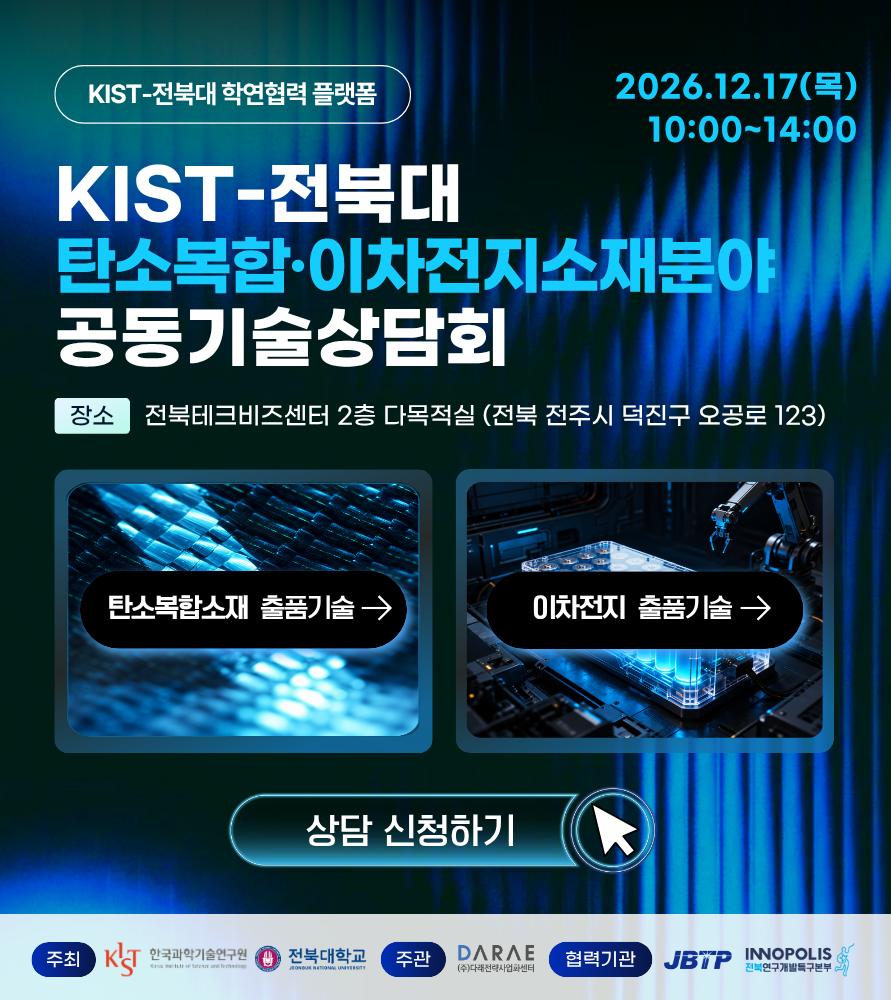
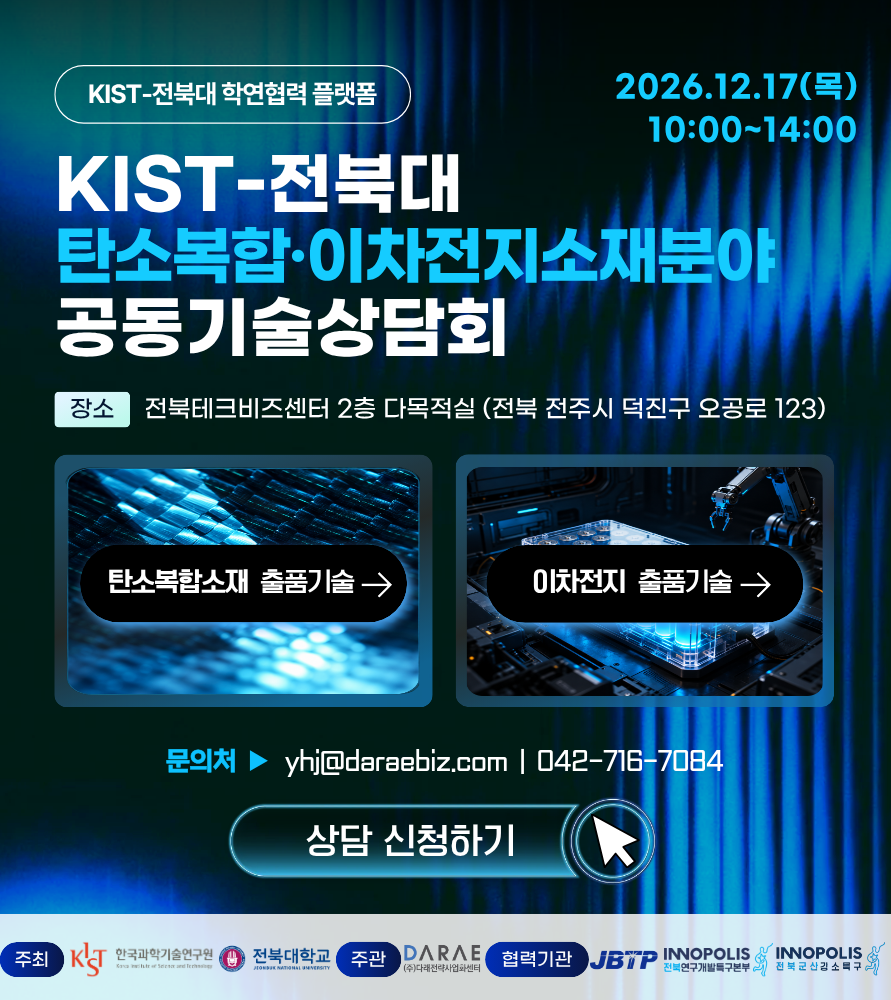
2026-jbnu-partnering: eDM 이미지 교체, 출품기술 버튼 클릭 영역 위치 조정
Claude-Session: https://claude.ai/code/session_013m9DrULBqybZFujcLbvGTN

Changed region(s): [[0.0606, 0.155, 0.9394, 0.899], [0.0, 0.93, 1.0, 0.992]]

diff --git a/2026-jbnu-partnering/edm/edm.html b/2026-jbnu-partnering/edm/edm.html
@@ -8,8 +8,8 @@
   <div style="width:891px; margin:0 auto;">
     <img src="https://darae-daejeon.github.io/kist-jbnu-partnering-2026/edm/edm.png" width="891" height="1000" usemap="#edm-buttons" alt="KIST-전북대 탄소복합·이차전지소재 공동기술상담회" style="display:block; width:891px; height:1000px; border:0;">
     <map name="edm-buttons" id="edm-buttons">
-      <area shape="rect" coords="80,571,407,650" href="https://darae-daejeon.github.io/kist/2026-jbnu-partnering/" target="_blank" alt="탄소복합소재 출품기술" title="탄소복합소재 출품기술">
-      <area shape="rect" coords="486,571,804,650" href="https://darae-daejeon.github.io/kist/2026-jbnu-partnering/" target="_blank" alt="이차전지 출품기술" title="이차전지 출품기술">
+      <area shape="rect" coords="80,545,407,622" href="https://darae-daejeon.github.io/kist/2026-jbnu-partnering/" target="_blank" alt="탄소복합소재 출품기술" title="탄소복합소재 출품기술">
+      <area shape="rect" coords="487,545,804,622" href="https://darae-daejeon.github.io/kist/2026-jbnu-partnering/" target="_blank" alt="이차전지 출품기술" title="이차전지 출품기술">
       <area shape="rect" coords="229,788,657,874" href="https://darae-daejeon.github.io/kist/2026-jbnu-partnering/" target="_blank" alt="상담 신청하기" title="상담 신청하기">
     </map>
   </div>
